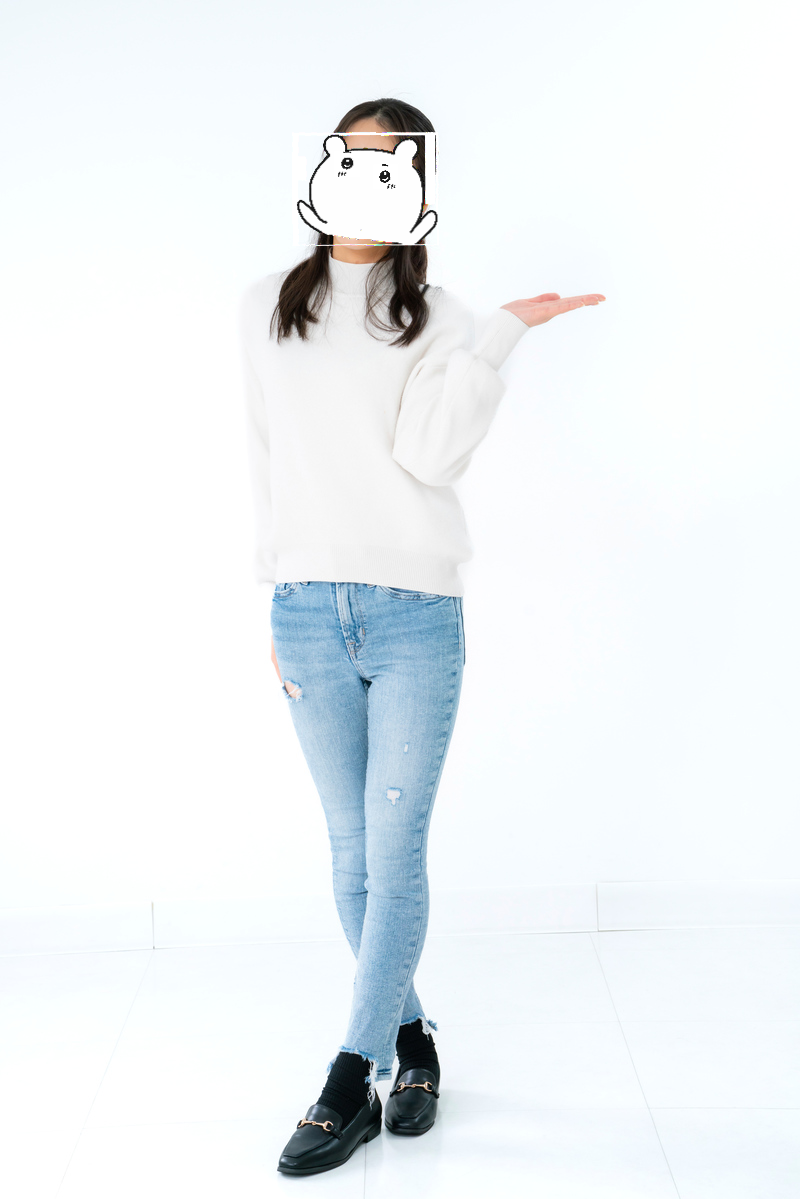
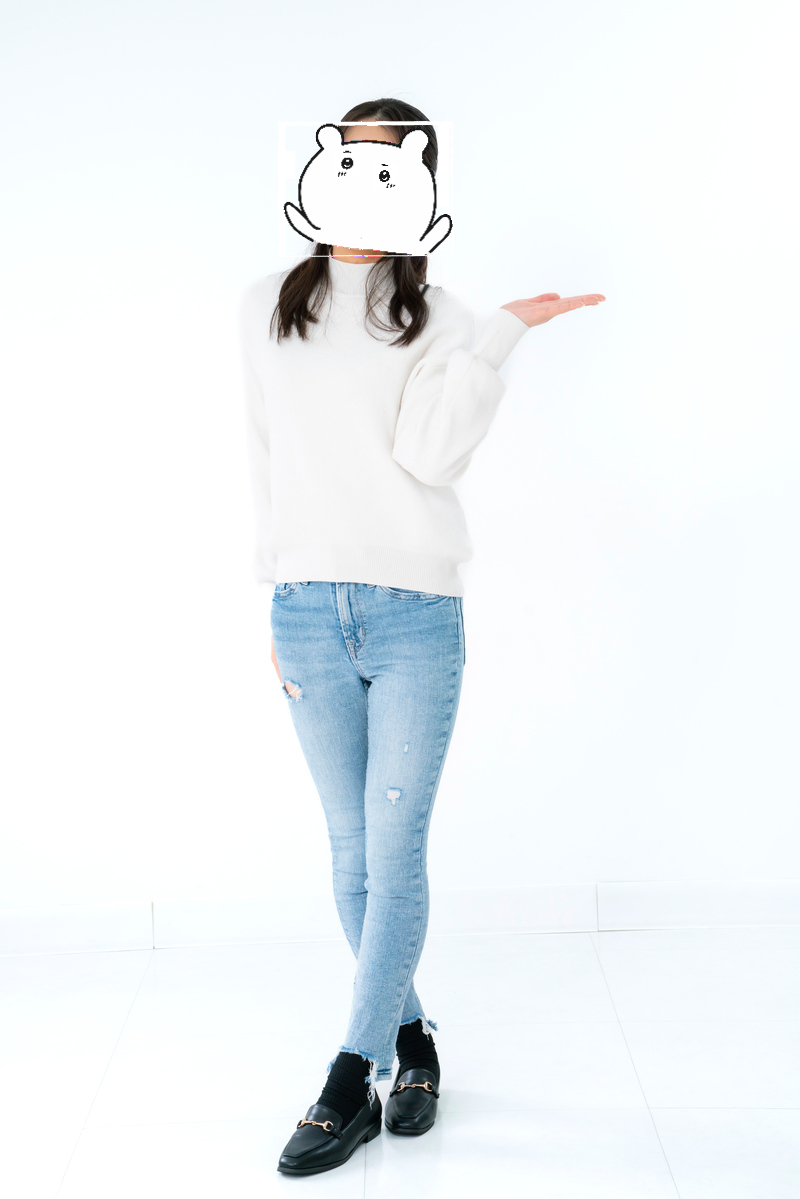
目がいまいちろんぱってるので調整しつつ

Changed region(s): [[0.3438, 0.0926, 0.5625, 0.216]]

diff --git a/compressor.py b/compressor.py
@@ -30,7 +30,7 @@ class compressor:
         righteye = righteye_reco(img_gray)
         righteye_targets = righteye.reco()
 
-        bigger_rect = self.get_reduction_ratio(lefteye_targets, righteye_targets)
+        # bigger_rect = self.get_reduction_ratio(lefteye_targets, righteye_targets)
 
         radian = self.get_degree_from_eyes(lefteye_targets, righteye_targets)
 
@@ -55,11 +55,14 @@ class compressor:
     
     def face_paste(self, back_img, rect, radian):
         px, py, pw, ph = rect[0]
+        a = 1.2
+        pw = math.floor(pw * a)
+        ph = math.floor(ph * a)
         fore_img = cv2.imread("./images/parts/face.png",  cv2.IMREAD_UNCHANGED)
 
         # fore_img = self.rotate(fore_img, radian, pw, ph)
         h, w = fore_img.shape[:2]
-        face_after_size = self.get_after_size(w, h, pw, ph)
+        face_after_size = self.get_after_size_face(w, h, pw, ph)
         # face_after_size = (pw, ph)
         fore_img = cv2.resize(fore_img, face_after_size)
         # return self.putSprite_Affine(back_img, fore_img, (px,py), radian)
@@ -72,8 +75,8 @@ class compressor:
         # 左側の目、という名称になっている
         fore_img = cv2.imread("./images/parts/righteye.png",  cv2.IMREAD_UNCHANGED)
         h, w = fore_img.shape[:2]
-        self.lefteye_ratio = w / pw
-        face_after_size = self.get_after_size(w, h, pw, ph)
+        self.lefteye_ratio = pw / w
+        face_after_size = self.get_after_size_eyes(w, h, pw, ph)
         fore_img = cv2.resize(fore_img, face_after_size)
         center = self.get_center(rect)
         return self.putSprite_Affine(back_img, fore_img, (px,py), angle=radian, center=center)
@@ -84,9 +87,9 @@ class compressor:
         # 右側の目、という名称になっている
         fore_img = cv2.imread("./images/parts/lefteye.png",  cv2.IMREAD_UNCHANGED)
         h, w = fore_img.shape[:2]
-        if (self.lefteye_ratio < 1.0):    # 初期化の値でない（汚い...ごめんなさい）
-            self.lefteye_ratio = w / pw
-        face_after_size = self.get_after_size(w, h, pw, ph)
+        if (self.lefteye_ratio == 1.0):    # 初期化の値でない（汚い...ごめんなさい）
+            self.lefteye_ratio = pw / w
+        face_after_size = self.get_after_size_eyes(w, h, pw, ph)
         fore_img = cv2.resize(fore_img, face_after_size)
         center = self.get_center(rect)
         return self.putSprite_Affine(back_img, fore_img, (px,py), angle=radian, center=center)
@@ -104,7 +107,7 @@ class compressor:
     #     back_img = self.alpha_blend(back_img, fore_img, (dx, dy))
     #     return back_img
     # 顔が全ての人間と比べて横長なので
-    def get_after_size(self, w, h, pw, ph):
+    def get_after_size_face(self, w, h, pw, ph):
         aw = math.floor(w * (ph / h))
         # ah = math.floor(ph / h)
         return (aw, ph)
@@ -112,15 +115,15 @@ class compressor:
         aw = math.floor(w * self.lefteye_ratio)
         ah = math.floor(h * self.lefteye_ratio)
         return (aw, ah)
+    # def get_reduction_ratio(self, rect, rect2):
+    #     px, py, pw, ph = rect[0]
+    #     px2, py2, pw2, ph2 = rect2[0]
+
+    #     if (ph < ph2):
+    #         return rect2
+    #     return rect
+
     # duplicated
-    def get_reduction_ratio(self, rect, rect2):
-        px, py, pw, ph = rect[0]
-        px2, py2, pw2, ph2 = rect2[0]
-
-        if (ph < ph2):
-            return rect2
-        return rect
-
     def get_center(self, rect):
         px, py, pw, ph = rect[0]
         return [(px + pw / 2), (py + ph / 2)]
@@ -192,14 +195,14 @@ class compressor:
         radian = math.atan2(y2 - y, x2 - x)
         return radian
 
-    def get_central(self, rect):
+    def get_radian_position(self, rect):
         px, py, pw, ph = rect[0]
 
         return ((px + math.floor(pw / 2)), (py + math.floor(ph / 2)))
 
     def get_degree_from_eyes(self, rect1, rect2):
-        x1, y1 = self.get_central(rect1)
-        x2, y2 = self.get_central(rect2)
+        x1, y1 = self.get_radian_position(rect1)
+        x2, y2 = self.get_radian_position(rect2)
         radian = self.get_radian(x1, y1, x2, y2)
         return radian
 class square_reco:
